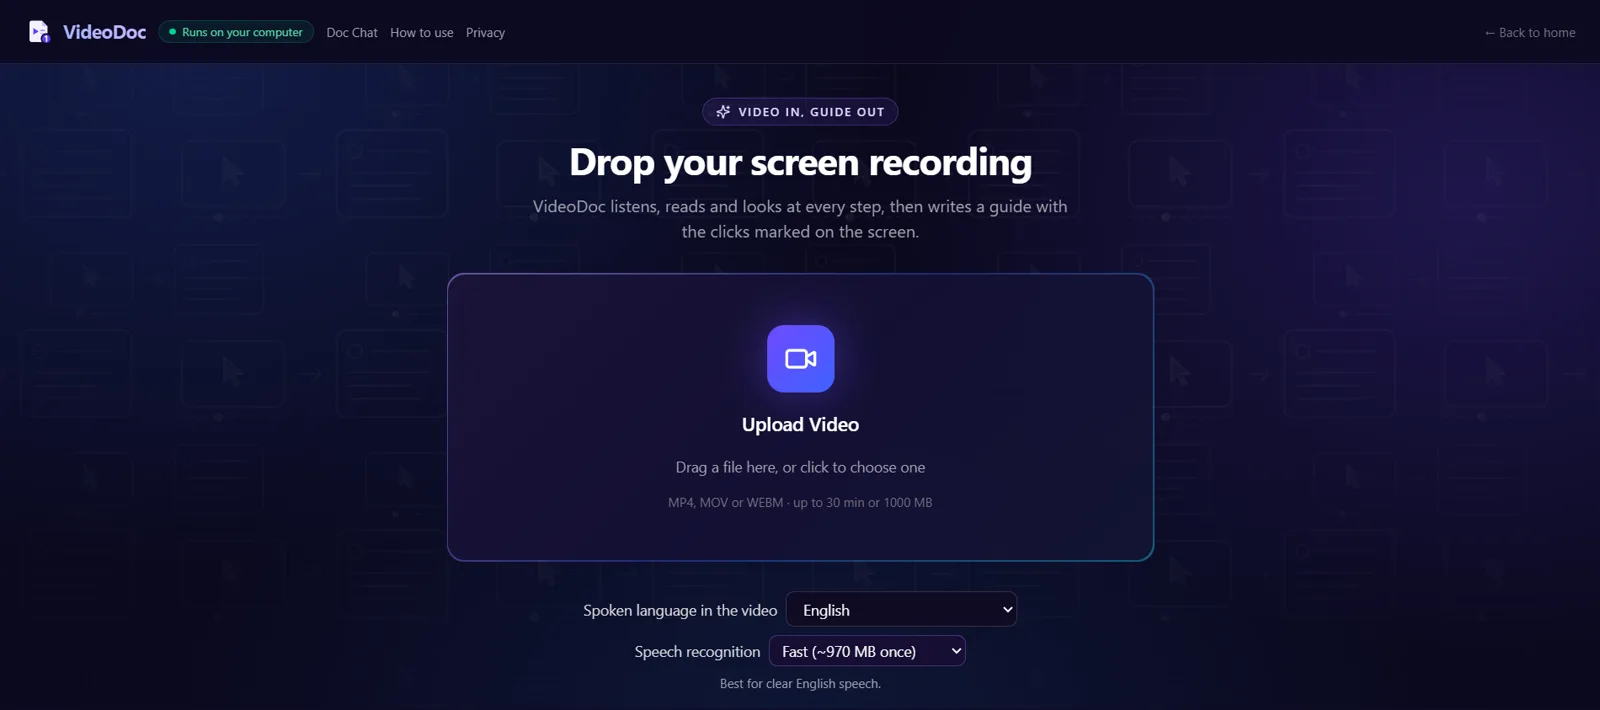
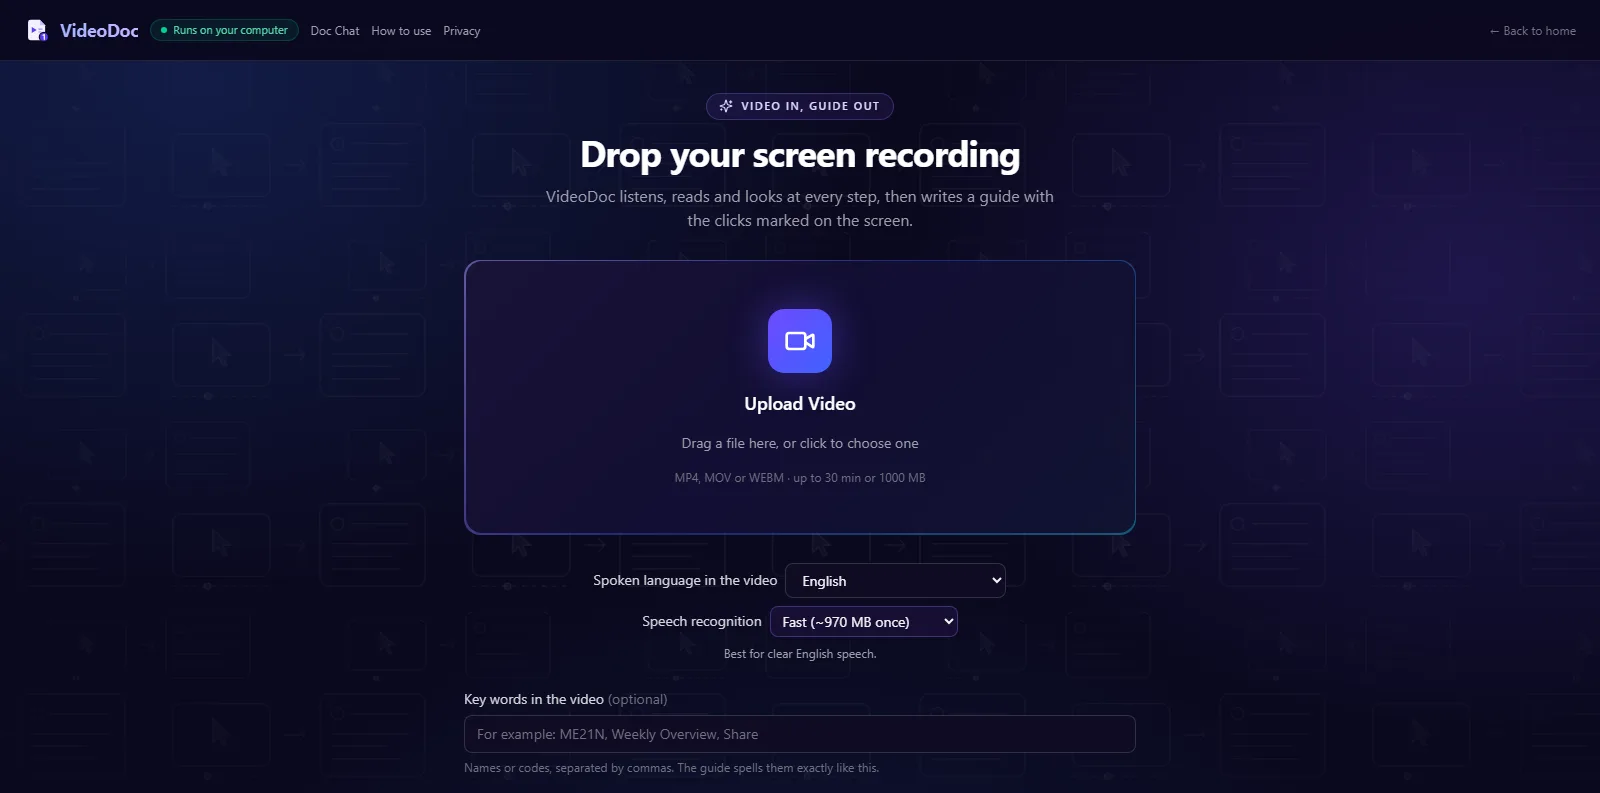
How to use: upload picture with the key words box; general example codes

diff --git a/src/lib/howto.js b/src/lib/howto.js
@@ -48,15 +48,16 @@ export const HOWTO = [
   {
     id: "upload", title: "Step 1. Start: choose your video", img: "upload",
     marks: [
-      { n: 1, x: 58.5, y: 70.7, dir: "right", text: "The size limit of the website. Check it before you choose a long recording." },
-      { n: 2, x: 28.0, y: 58.7, dir: "left", text: "Drop your video here, or click here to pick it from your computer. MP4, MOV and WEBM files work." },
-      { n: 3, x: 36.5, y: 85.9, dir: "left", text: "The language people speak in the video. If it is not in the list, pick Another language. The guide is always written in English." },
-      { n: 4, x: 39.7, y: 91.7, dir: "left", text: "How the speech is heard. Fast is good for clear English. Accurate hears names, codes and mixed languages better, but takes 3 to 4 times longer on most laptops." },
+      { n: 1, x: 57.8, y: 60.2, dir: "right", text: "The size limit of the website. Check it before you choose a long recording." },
+      { n: 2, x: 29.0, y: 50.1, dir: "left", text: "Drop your video here, or click here to pick it from your computer. MP4, MOV and WEBM files work." },
+      { n: 3, x: 37.1, y: 73.1, dir: "left", text: "The language people speak in the video. If it is not in the list, pick Another language. The guide is always written in English." },
+      { n: 4, x: 40.1, y: 78.3, dir: "left", text: "How the speech is heard. Fast is good for clear English. Accurate hears names, codes and mixed languages better, but takes 3 to 4 times longer on most laptops." },
+      { n: 5, x: 29.0, y: 92.5, dir: "left", text: "Key words (optional): names or codes from the video, separated by commas. The guide spells them exactly like this." },
     ],
     body: [
       "First pick the language and the speech option. Then choose the video. VideoDoc starts at once.",
       "No sound in your video? That is fine. The guide is then made from the screen only.",
-      "Key words (optional): type names or codes from the video, separated by commas, for example FS10N, Weekly Overview. The guide spells them exactly like this, and a part where one is said or shown uses it.",
+      "Key words (optional): type names or codes from the video, separated by commas, for example ME21N, Weekly Overview. The guide spells them exactly like this, and a part where one is said or shown uses it.",
     ],
   },
   {

diff --git a/src/components/Uploader.jsx b/src/components/Uploader.jsx
@@ -109,7 +109,7 @@ export default function Uploader({ onVideoSelect }) {
       {/* Key words (optional): spelled exactly like this in the guide */}
       <div className="w-full max-w-2xl flex flex-col gap-1.5 text-sm">
         <label htmlFor="vd-terms" className="text-zinc-300">Key words in the video <span className="text-zinc-500">(optional)</span></label>
-        <input id="vd-terms" value={keywords} onChange={(e) => setKeywords(e.target.value)} placeholder="For example: FS10N, Weekly Overview, Share"
+        <input id="vd-terms" value={keywords} onChange={(e) => setKeywords(e.target.value)} placeholder="For example: ME21N, Weekly Overview, Share"
           className="bg-[#0f0b24] border border-white/15 rounded-lg px-3 py-2 text-zinc-100 placeholder:text-zinc-500 focus:outline-none focus:border-violet-400" />
         <span className="text-xs text-zinc-500">Names or codes, separated by commas. The guide spells them exactly like this.</span>
       </div>

diff --git a/src/lib/screenVocab.js b/src/lib/screenVocab.js
@@ -48,7 +48,7 @@ export function screenVocab(frameTexts) {
 }
 
 // One transcript line → the line with sound-alike phrases replaced
-// loose (the user's own key words): a code may also be one digit off ("CJ888" heard for CJ88)
+// loose (the user's own key words): a code may also be one digit off ("ME211N" heard for ME21N)
 export function fixWithVocab(text, vocab, { loose = false } = {}) {
   if (!text || !vocab?.length) return text
   const terms = vocab.map((t) => ({ t, c: canon(t), n: t.split(" ").length }))

diff --git a/src/lib/terms.js b/src/lib/terms.js
@@ -1,5 +1,5 @@
-// Key words the user types before a run ("FS10N, CJ88, Weekly Overview").
-// They fix how speech recognition heard them (CJ888 → CJ88), are spelled
+// Key words the user types before a run ("ME21N, Weekly Overview").
+// They fix how speech recognition heard them (ME211N → ME21N), are spelled
 // exactly like this in the guide, and a part where one is said or shown must
 // mention it. Everything else in the guide still comes from the video.
 import { fixWithVocab } from "./screenVocab.js"

diff --git a/CHANGELOG.md b/CHANGELOG.md
@@ -22,7 +22,7 @@ The manual release: the clicks marked on the screen, in documents that read like
 * **No more graphics crash.** The animated app background kept the graphics card busy for hours while the page only waited, and on a full laptop that ended in a Windows crash. The app now uses a still background (0 % graphics load while waiting, measured).
 * **Cleaner steps.** Folders of a menu tree read off the screen ("Expand Favorites") are no longer written as actions, and tips that only say something is irrelevant are dropped. A clear value on screen is never rewritten. The same action written twice (also in other words, or a plain line repeated later in the part) is kept once. Lines about what the trainer talks about ("Mention the option to save as") become the action itself ("Save as"), and remarks ("Acknowledge that this is test data") become the tip. Speech copied as a step ("You can save this version") becomes the order ("Save this version"); lines where the speaker talks about themselves, long menu-tree read-outs, misread screen labels, spoken sentences taken as typed values, and fields or option lists only read off the screen ("Identify the Ledger field", "View the options: Home, Reports, ...") are left out. Descriptions of the screen ("The dashboard displays a table") are left out when a part has real actions, and "If you want to add your filters, you can add" becomes "Add your filters".
 * **Silent clicks.** Windows, tabs and fields that appear on screen while nobody speaks are listed in time order for the AI, so a click that is only shown (not said) can become a step. Before, only the first part of the screen text of a long part reached the AI. A window that is open for only a moment (a short SAP dialog) now counts too.
-* **Key words box.** Under the upload, an optional field: names or codes from the video, separated by commas ("FS10N, Weekly Overview"). They fix how the speech was heard ("CJ888" becomes CJ88), are spelled exactly like this in the guide, and a part where one is said or shown must use it.
+* **Key words box.** Under the upload, an optional field: names or codes from the video, separated by commas ("ME21N, Weekly Overview"). They fix how the speech was heard ("ME211N" becomes ME21N), are spelled exactly like this in the guide, and a part where one is said or shown must use it.
 * **Said in the video, but not in this step.** Under a step, what was said (and is on screen) but is missing from it, with + Add and Hide.
 * **Review mode.** The top of the guide says how many steps need a quick look; Show only these lists just those.
 * **Picks up where it stopped.** The transcript, the screen text and every part already written are kept in this browser while a video runs. After a crash, a closed tab or sleep, the same video with the same settings continues instead of starting over.
